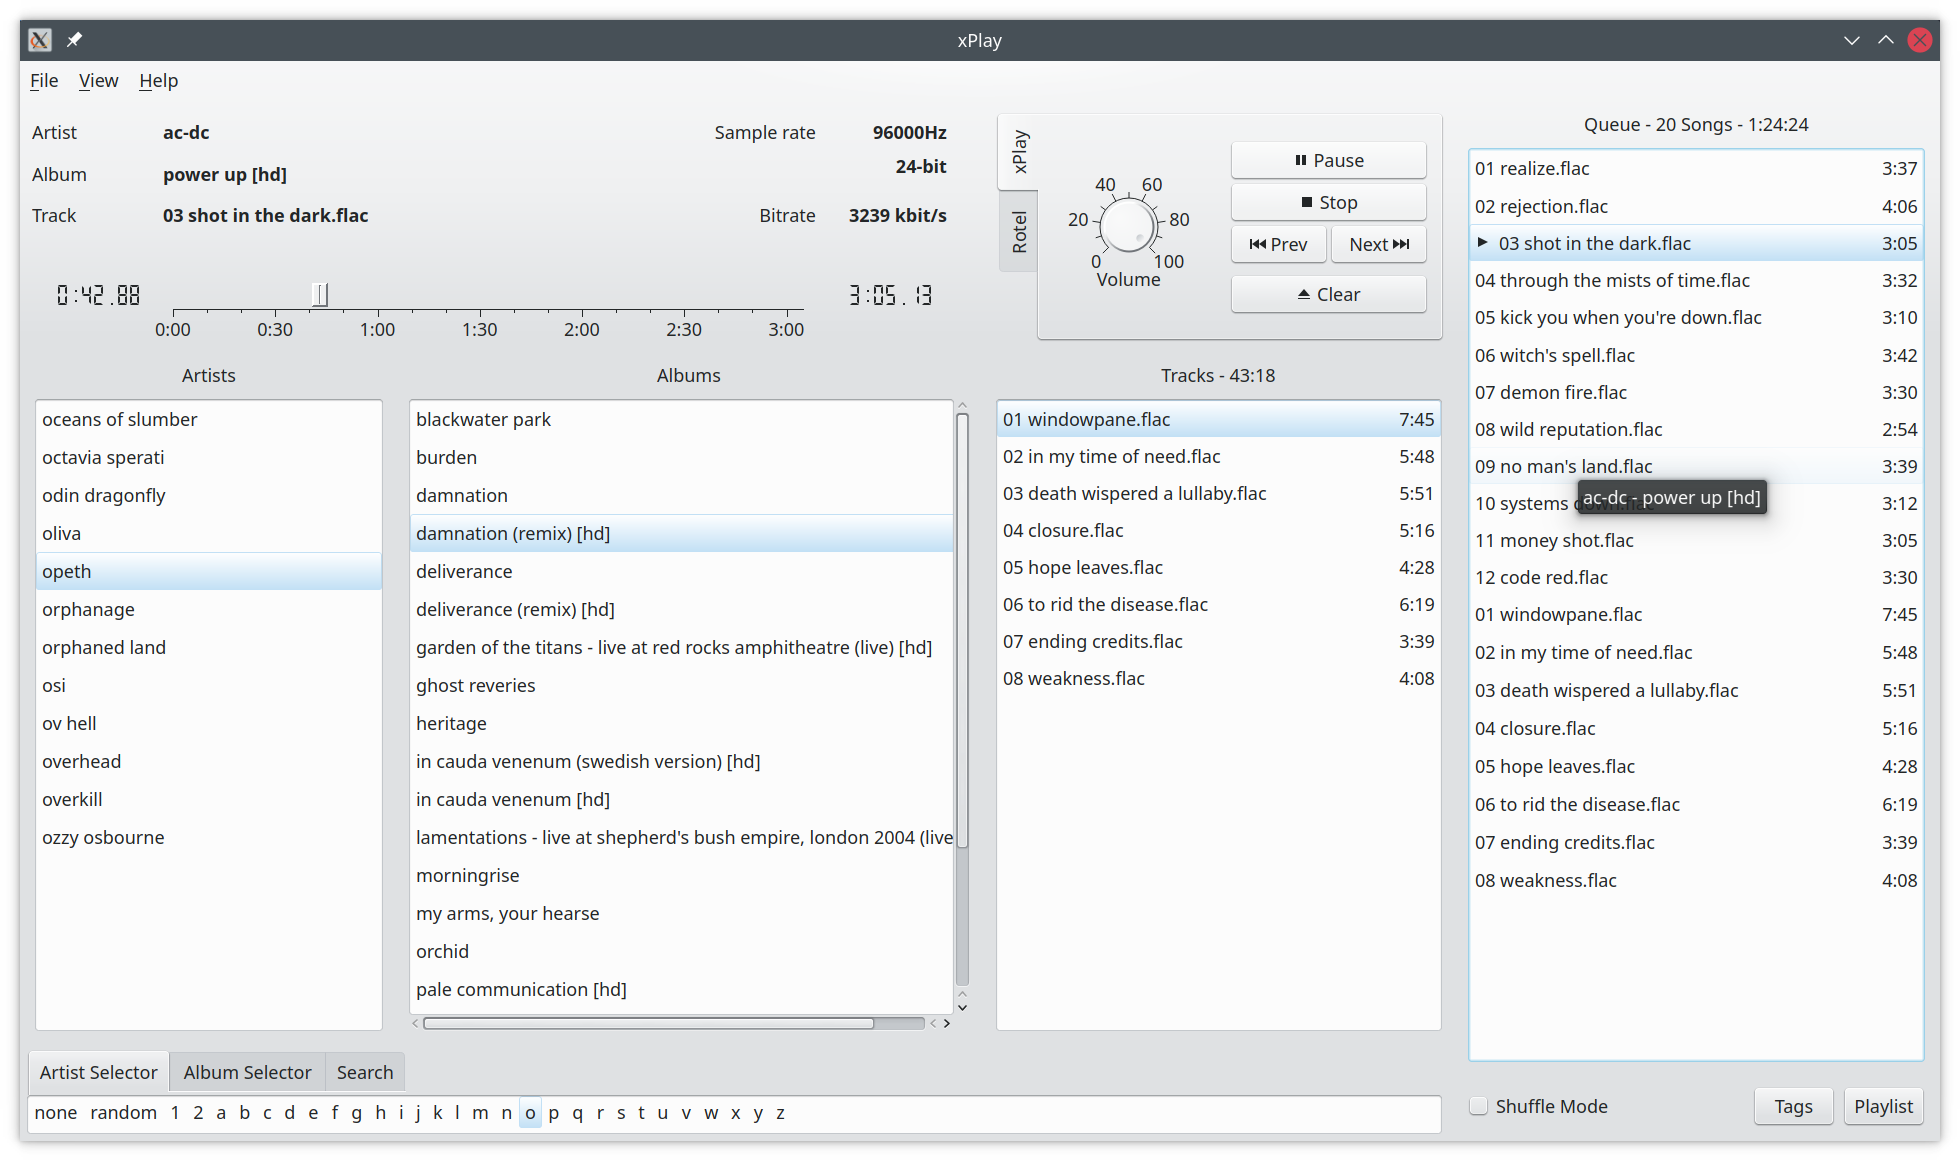
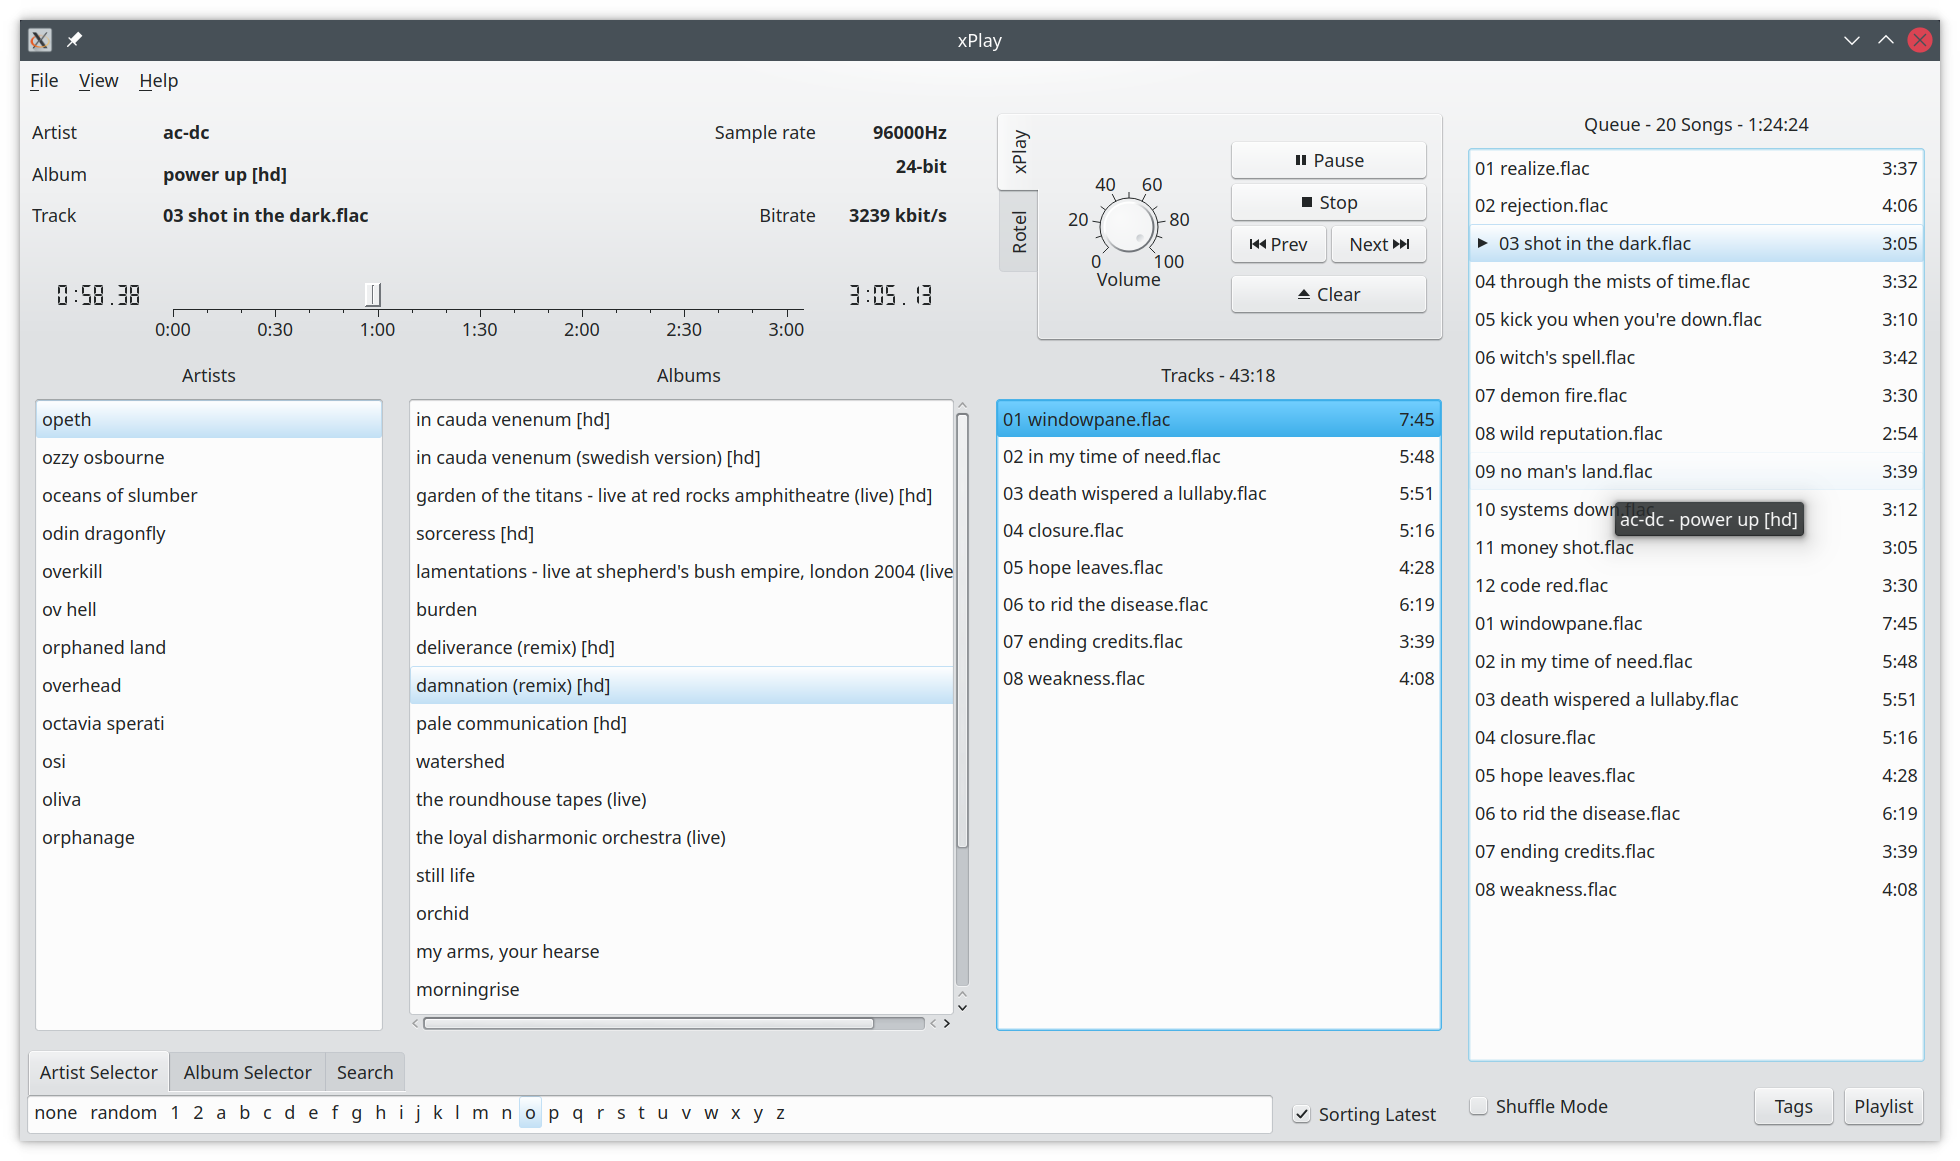
Update CHANGELOG.md and README.md. Update screenshots and version number.

diff --git a/xPlay.cpp b/xPlay.cpp
@@ -155,7 +155,7 @@ int main(int argc, char* argv[])
 {
     QApplication playApp(argc, argv);
     QApplication::setApplicationName("xPlay");
-    QApplication::setApplicationVersion("0.9.2");
+    QApplication::setApplicationVersion("0.9.3");
     QCommandLineParser playAppParser;
     if (handleCommandLine(playApp, playAppParser)) {
         // Exit if the command line was handled.

diff --git a/README.md b/README.md
@@ -151,6 +151,8 @@ The artist selector list can be used to filter the artist list by the first char
 you click on *none*. If a selector is double-clicked then all selected artists with their albums are queue. A
 double-click on *none* will queue the entire music library. The artist selector *random* will randomize the list of
 artists. A double-click on *random* will randomize the artist list again and not add any tracks to the queue.
+The *Sorting Latest* checkbox will sort the artists and albums according to the timestamp they were last modified.
+The tracks ordering is not affected by this option. The checkbox is cleared whenever the *random* selector is chosen.
 
 ##### Album Selector
 

diff --git a/CHANGELOG.md b/CHANGELOG.md
@@ -1,5 +1,12 @@
 # Changelog
 
+## 0.9.3 - 2021-10-08
+
+- Add support for sorting artists and albums after last write access time.
+- Add optimizations for xPlayerListWidget.
+- Add initial tests.
+
+
 ## 0.9.2 - 2021-08-04
 
 - Replace close pushbutton with close icon tool button.
